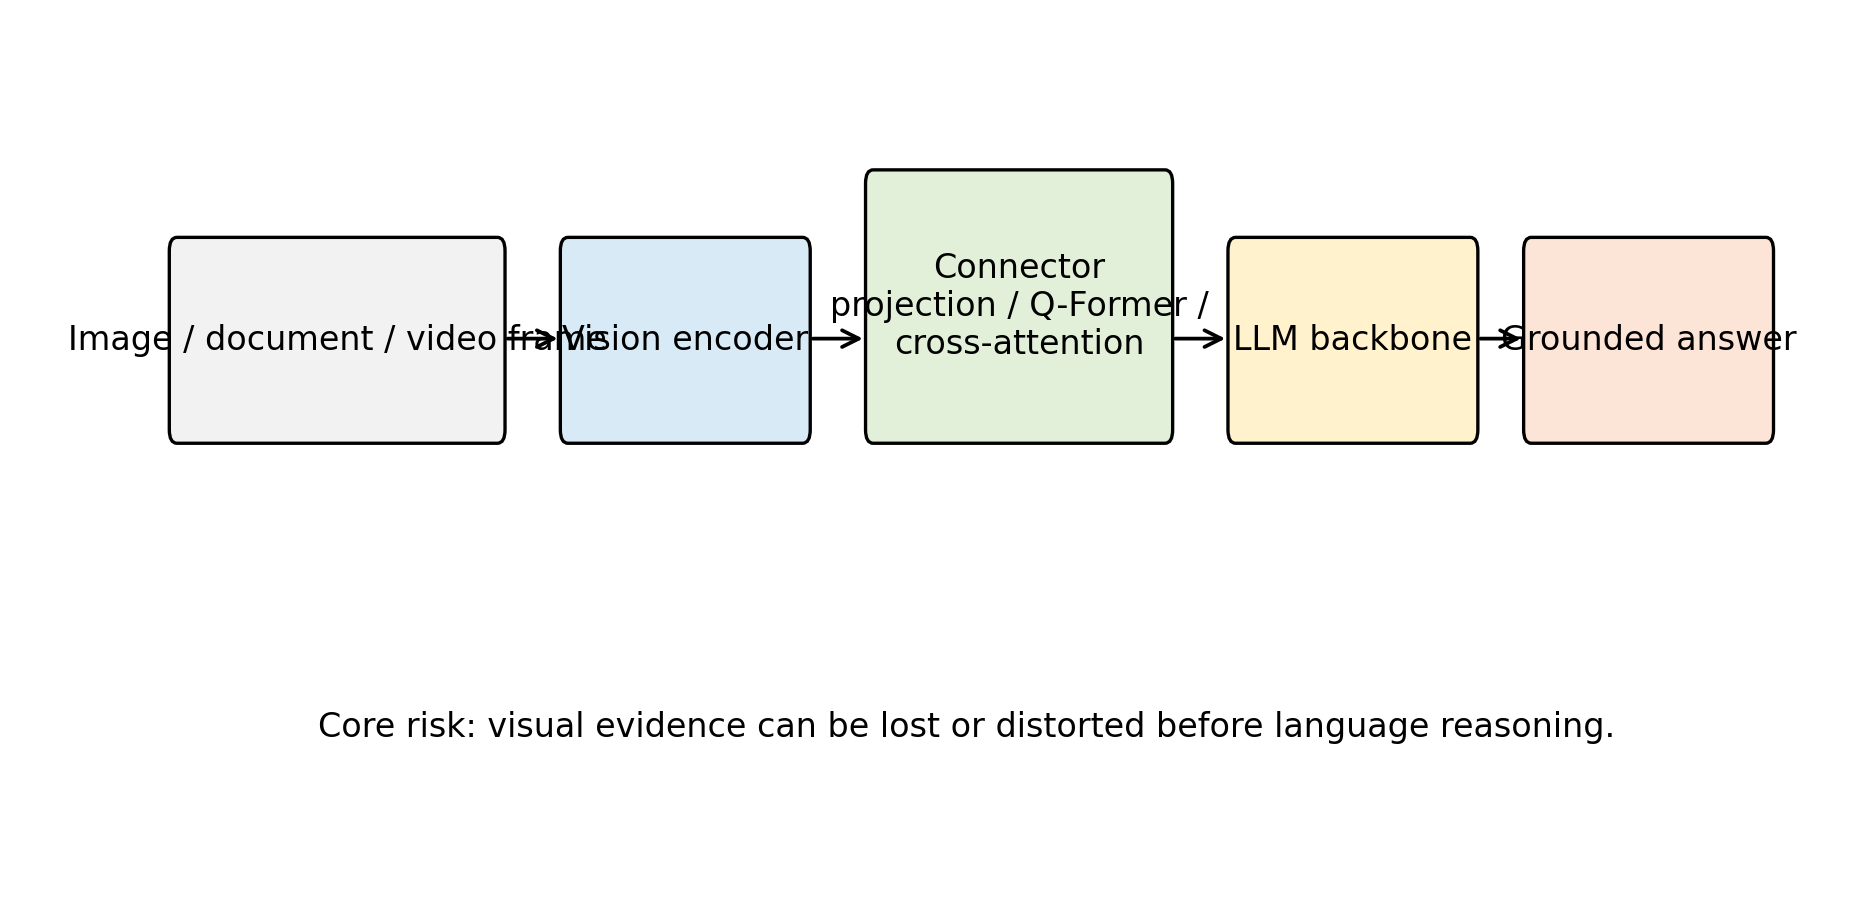
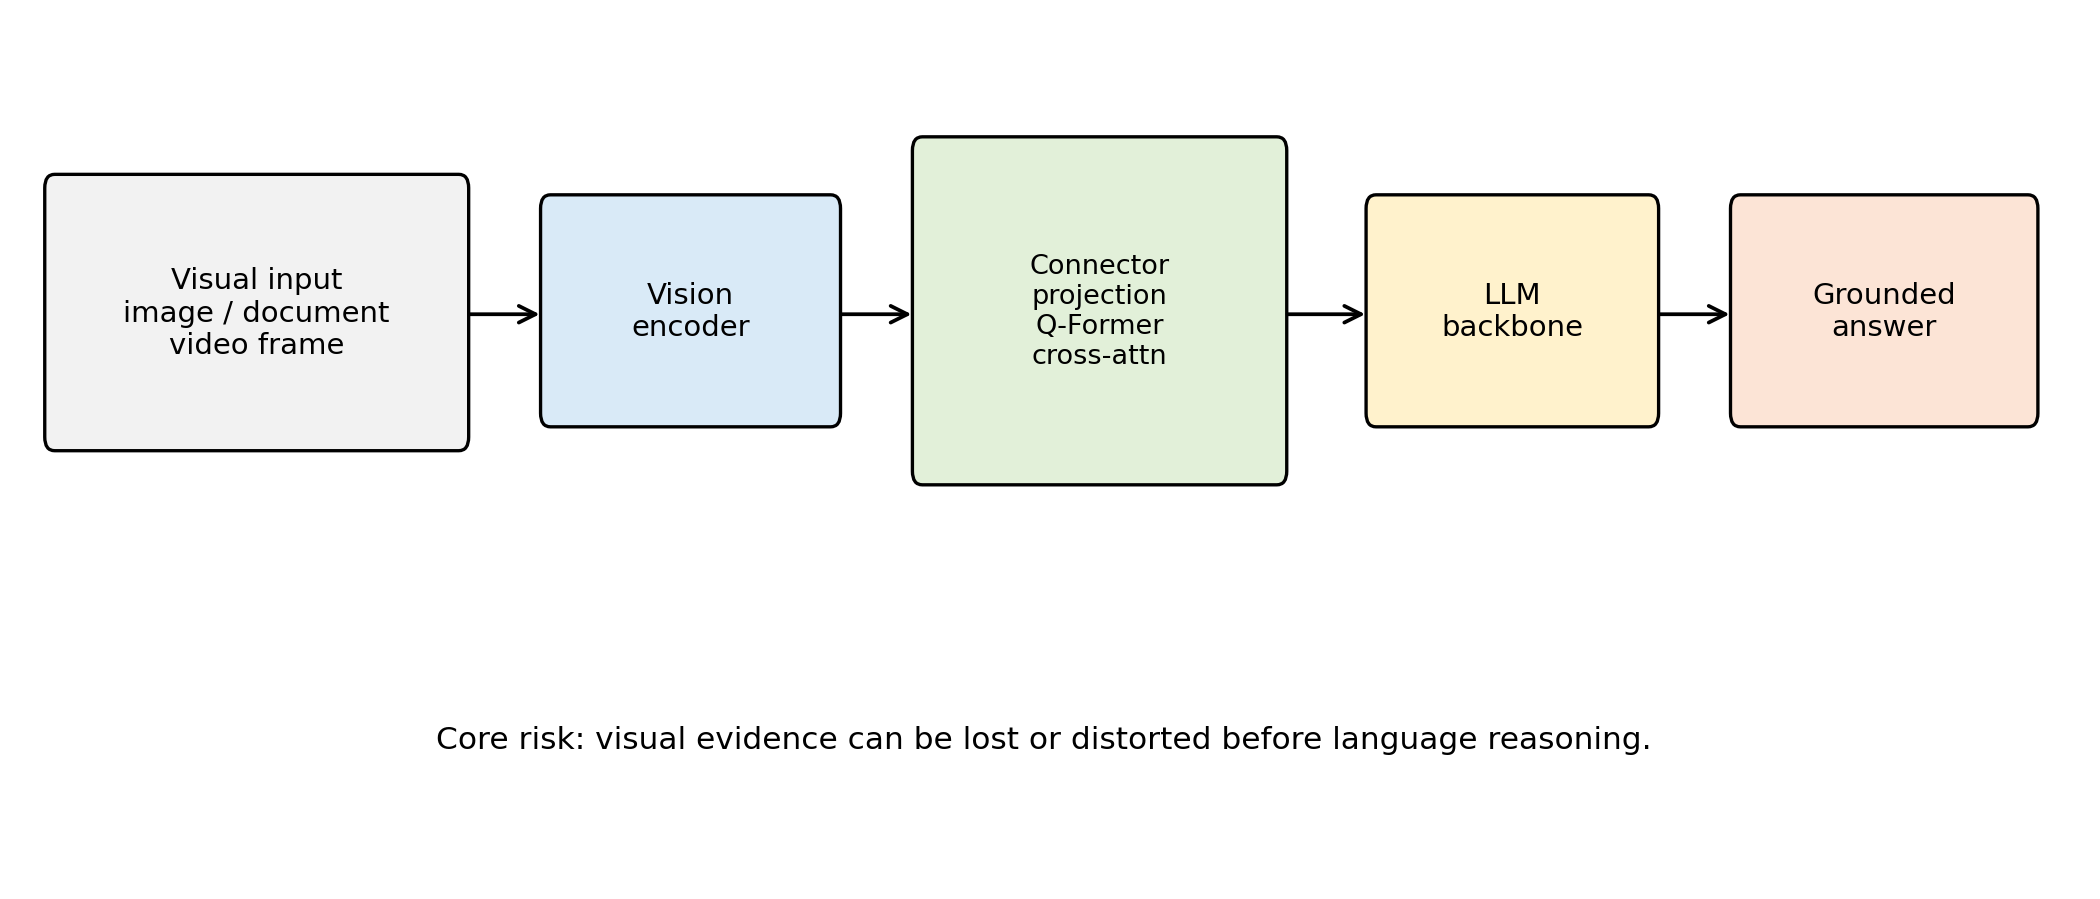
Fix Figure 1 architecture diagram layout

Changed region(s): [[0.0312, 0.1246, 0.9978, 0.5606], [0.1871, 0.7786, 0.8731, 0.8409], [0.0312, 0.1869, 0.2183, 0.218]]

diff --git a/scripts/generate_figures.py b/scripts/generate_figures.py
@@ -60,7 +60,7 @@ def save_benchmark_timeline() -> None:
     plt.close()
 
 
-def add_box(ax, xy, text: str, width=1.8, height=0.55, face="#eeeeee") -> None:
+def add_box(ax, xy, text: str, width=1.8, height=0.55, face="#eeeeee", font_size=8) -> None:
     x, y = xy
     box = FancyBboxPatch(
         (x, y),
@@ -72,7 +72,7 @@ def add_box(ax, xy, text: str, width=1.8, height=0.55, face="#eeeeee") -> None:
         facecolor=face,
     )
     ax.add_patch(box)
-    ax.text(x + width / 2, y + height / 2, text, ha="center", va="center", fontsize=8, wrap=True)
+    ax.text(x + width / 2, y + height / 2, text, ha="center", va="center", fontsize=font_size, wrap=True)
 
 
 def add_arrow(ax, start, end) -> None:
@@ -81,21 +81,21 @@ def add_arrow(ax, start, end) -> None:
 
 
 def save_architecture_diagram() -> None:
-    plt.figure(figsize=(6.2, 3.0))
+    plt.figure(figsize=(7.2, 3.2))
     ax = plt.gca()
     ax.axis("off")
-    add_box(ax, (0.1, 1.65), "Image / document / video frame", 1.7, 0.55, "#f2f2f2")
-    add_box(ax, (2.15, 1.65), "Vision encoder", 1.25, 0.55, "#d9eaf7")
-    add_box(ax, (3.75, 1.65), "Connector\nprojection / Q-Former /\ncross-attention", 1.55, 0.75, "#e2f0d9")
-    add_box(ax, (5.65, 1.65), "LLM backbone", 1.25, 0.55, "#fff2cc")
-    add_box(ax, (7.2, 1.65), "Grounded answer", 1.25, 0.55, "#fce4d6")
-    for start, end in [((1.8, 1.93), (2.15, 1.93)), ((3.4, 1.93), (3.75, 1.93)), ((5.3, 1.93), (5.65, 1.93)), ((6.9, 1.93), (7.2, 1.93))]:
+    add_box(ax, (0.15, 1.65), "Visual input\nimage / document\nvideo frame", 1.65, 0.75, "#f2f2f2", font_size=7)
+    add_box(ax, (2.15, 1.72), "Vision\nencoder", 1.15, 0.62, "#d9eaf7", font_size=7)
+    add_box(ax, (3.65, 1.55), "Connector\nprojection\nQ-Former\ncross-attn", 1.45, 0.96, "#e2f0d9", font_size=6.5)
+    add_box(ax, (5.48, 1.72), "LLM\nbackbone", 1.12, 0.62, "#fff2cc", font_size=7)
+    add_box(ax, (6.95, 1.72), "Grounded\nanswer", 1.18, 0.62, "#fce4d6", font_size=7)
+    for start, end in [((1.8, 2.02), (2.15, 2.02)), ((3.3, 2.02), (3.65, 2.02)), ((5.1, 2.02), (5.48, 2.02)), ((6.6, 2.02), (6.95, 2.02))]:
         add_arrow(ax, start, end)
-    ax.text(4.25, 0.75, "Core risk: visual evidence can be lost or distorted before language reasoning.", ha="center", fontsize=8)
-    ax.set_xlim(0, 8.6)
-    ax.set_ylim(0.4, 2.8)
+    ax.text(4.15, 0.75, "Core risk: visual evidence can be lost or distorted before language reasoning.", ha="center", fontsize=7.5)
+    ax.set_xlim(0, 8.35)
+    ax.set_ylim(0.35, 2.9)
     plt.tight_layout()
-    plt.savefig(FIG_DIR / "figure1_architecture.png", dpi=300)
+    plt.savefig(FIG_DIR / "figure1_architecture.png", dpi=300, bbox_inches="tight", pad_inches=0.05)
     plt.close()
 
 